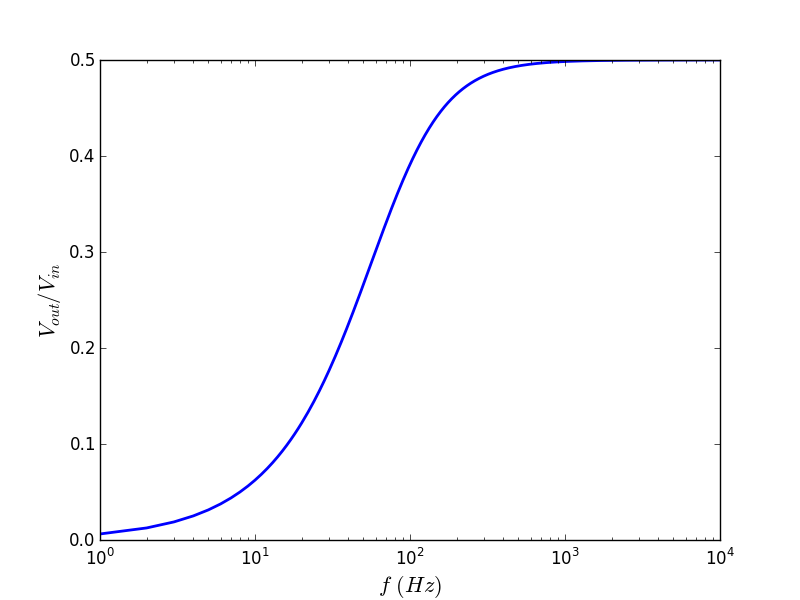
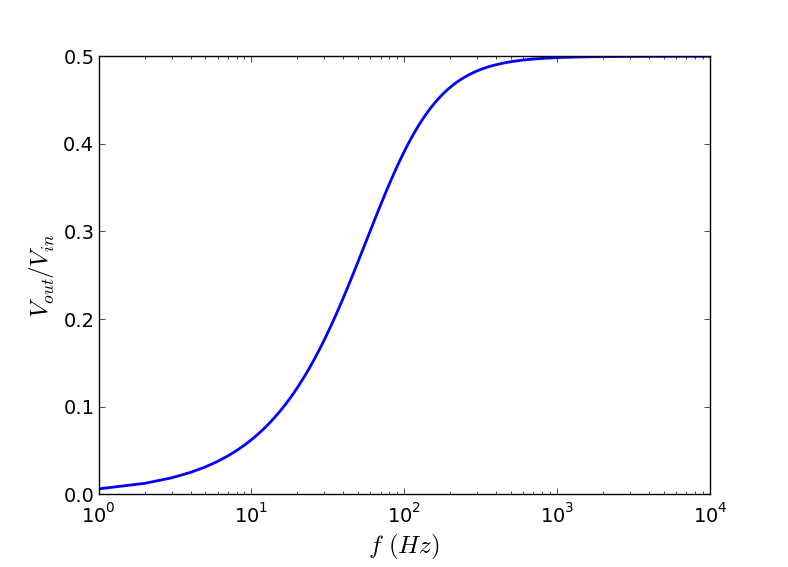
Added RC high-pass and low-pass plot for 1.3.1 and increased fontsizes on all plots

diff --git a/lab_analog/code/week1_plots.py b/lab_analog/code/week1_plots.py
@@ -11,8 +11,26 @@ def capacitor_v_divider():
     RC = CircuitImpedance([R1, C1])
     divider = VoltageDivider(C1, RC)
     semilogx(f, divider.response(2*pi*f), "b-", linewidth=2)
-    ylabel(r"$V_{out}/V_{in}$", fontsize=16)
-    xlabel(r"$f$ $(Hz)$", fontsize=16)
+    ylabel(r"$V_{out}/V_{in}$", fontsize=18)
+    xlabel(r"$f$ $(Hz)$", fontsize=18)
+    xticks(fontsize=14)
+    yticks(fontsize=14)
+    show()
+
+
+def RC_filters():
+    """1.3.1 RC filters expected responses"""
+    f = np.arange(1e4, 1e6, 1e2)
+    C1, R1 = C(1e-6), R(1.6)
+    highpass = VoltageDivider(C1, R1)
+    lowpass = VoltageDivider(R1, C1)
+    semilogx(f, highpass.response(2*pi*f), "b-", linewidth=2, label="High-pass filter")
+    semilogx(f, lowpass.response(2*pi*f), "r-", linewidth=2, label="Low-pass filter")
+    ylabel(r"$V_{out}/V_{in}$", fontsize=18)
+    xlabel(r"$f$ $(Hz)$", fontsize=18)
+    xticks(fontsize=14)
+    yticks(fontsize=14)
+    legend(loc=3)
     show()
 
 
@@ -28,11 +46,11 @@ def bandpass_plot():
     xlim(680000, 1320000)
     ylim(ylim()[0], ylim()[1] + .05)
     # plot(xlim(), [.5, .5], "m-", label="half power")
-    ylabel(r"$P_{out}/P_{in}$", fontsize=14)
+    ylabel(r"$P_{out}/P_{in}$", fontsize=18)
     plot([1.045e6, 1.045e6], ylim(), "r--", label=r"$1.045 MHz$", linewidth=2)
     plot([1.045e6-100e3, 1.045e6-100e3], ylim(), "r:", label=r"$\pm100 kHz$", linewidth=2)
     plot([1.045e6+100e3, 1.045e6+100e3], ylim(), "r:", linewidth=2)
-    xlabel(r"$f$ $(Hz)$", fontsize=14)
+    xlabel(r"$f$ $(Hz)$", fontsize=18)
     xticks(fontsize=14)
     yticks(fontsize=14)
     ticklabel_format(axis='x', style='sci', scilimits=(-2,2))
@@ -46,11 +64,11 @@ def final_lowpass():
     C1, R1 = C(1e-9), R(1e3)
     lowpass = VoltageDivider(R1, C1)
     semilogx(f, lowpass.response(2*pi*f), "b-", linewidth=2)
-    ylabel(r"$V_{out}/V_{in}$", fontsize=14)
+    ylabel(r"$V_{out}/V_{in}$", fontsize=18)
     plot([1.045e6, 1.045e6], ylim(), "r--", linewidth=2, label=r"FM Carrier $1.045 MHz$")
     plot([20, 20], ylim(), "g:", linewidth=2, label=r"Audible $(20Hz-20kHz)$")
     plot([20e3, 20e3], ylim(), "g:", linewidth=2)
-    xlabel(r"$f$ $(Hz)$", fontsize=14)
+    xlabel(r"$f$ $(Hz)$", fontsize=18)
     xticks(fontsize=14)
     yticks(fontsize=14)
     # ticklabel_format(axis='x', style='sci', scilimits=(-2,2))
